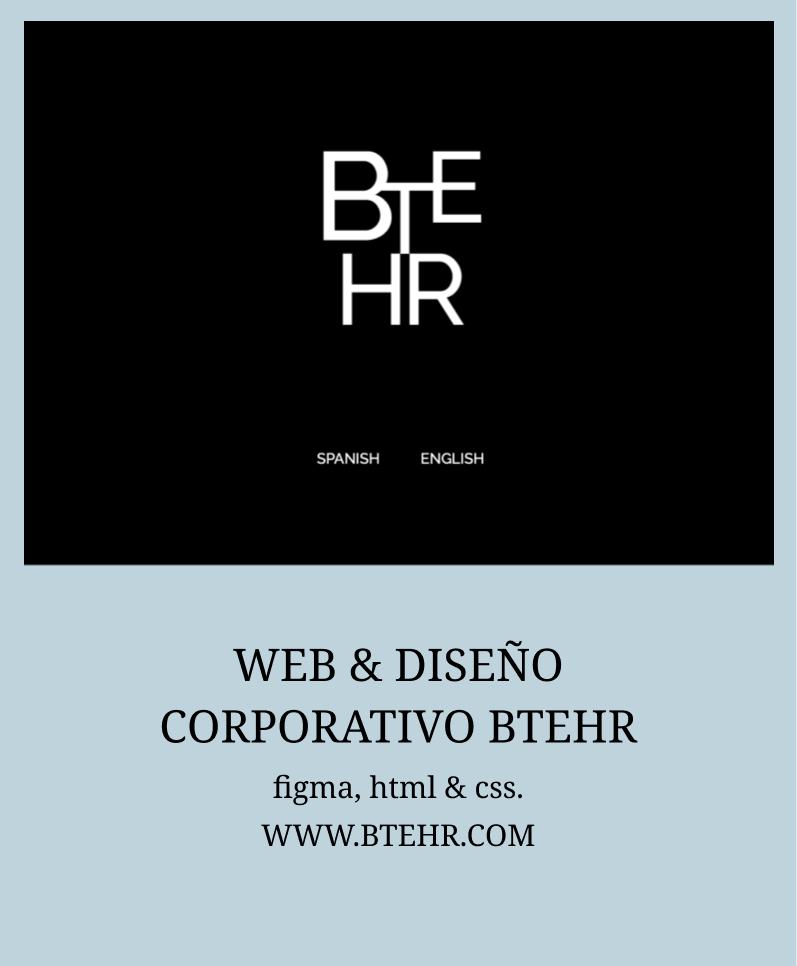
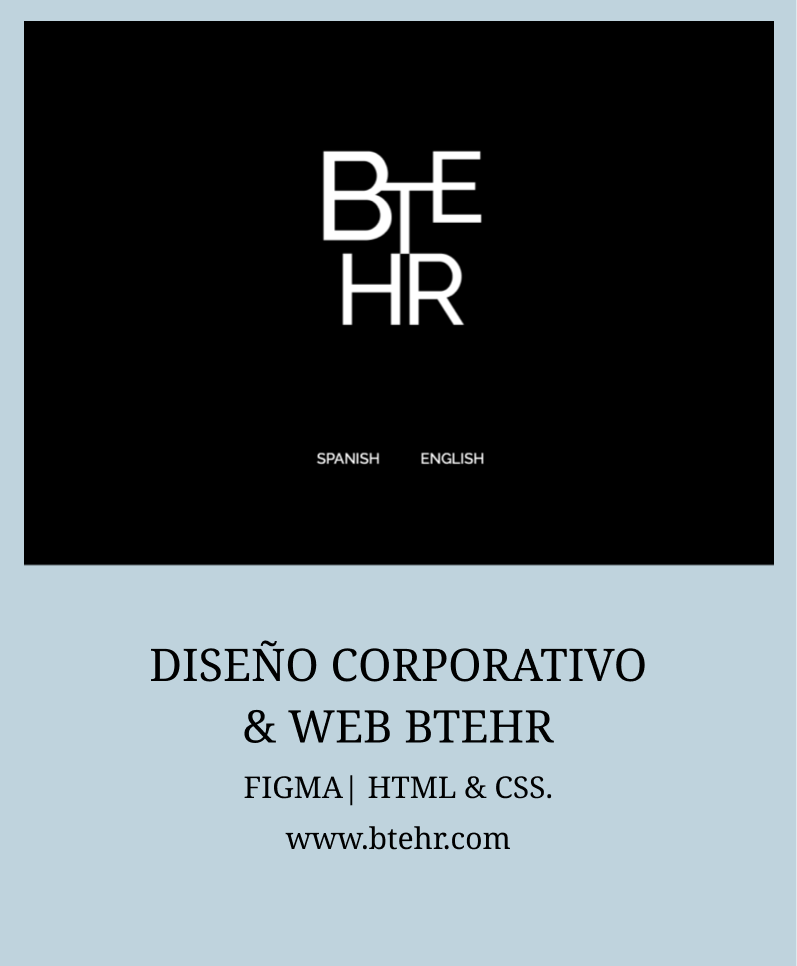
comienzo responsive index

Changed region(s): [[0.1807, 0.6522, 0.813, 0.9006]]

diff --git a/styles_responsive.css b/styles_responsive.css
@@ -1,0 +1,148 @@
+/* -------STYLES RESPONSIVE------- */
+
+@media(max-width:1000px){
+    
+    /* index */
+    .ejemplos{/* postales */
+        width: 80%;
+
+    }
+}
+
+@media(max-width:850px){
+    
+    /* index */
+    .navbar_portada a{/* navbar index / enlaces */
+        width: 100px;
+        font-size: 16px;
+
+    }
+    .ejemplos{/* postales */
+        height: 300px; 
+    } 
+    .footer_nav a{/* footer enlaces */
+        font-size: 16px;
+    
+    }
+}
+@media(max-width:800px){
+    
+   /* index */
+   .intro{
+    width: 80%;
+    height: 750px;/* 900 */
+
+}
+    .intro_titulo{
+        font-size: 55px;
+        line-height: 80px;
+        padding-top: 15px;
+
+    }
+    .intro_parrafo{
+        width: 85%;
+        font-size: 20px;
+        line-height: 35px;
+
+    }
+    .intro img{
+        padding-bottom: 20px; 
+
+    }
+    .servicios_titulo{
+        font-size: 20px;
+    }
+    .servicios_categorias{
+        font-size: 20px;
+        line-height: 55px;
+        
+    }
+    .conclusion{
+        height: 500px;
+
+    } 
+         .conclusion_titulo{
+            font-size: 20px;
+     
+         }
+         .conclusion_parrafo{
+            width: 75%;
+            font-size: 16px;
+            line-height: 30px;
+            
+        }
+        .conclusion_contacto{
+            height: 80px;
+            font-size: 20px; 
+        }
+      .ejemplos{
+        height: 250px;
+
+      }
+}
+@media(max-width:700px){
+    
+    /* index */
+    .navbar_portada a{/* navbar index / enlaces */
+        width: 55%;
+        font-size: 14px;
+
+    }
+    .intro{
+        width: 80%;
+        height: 680px;
+    
+    }
+        .intro_titulo{
+            font-size: 52px;
+            line-height: 79px;
+        }
+        .intro_parrafo{
+            width: 89%;
+    
+        }
+   
+             .conclusion_parrafo{
+                width: 80%;
+                
+            }
+          .ejemplos{
+            height: 220px;
+    
+          }
+   
+}
+@media(max-width:700px){
+    
+    /* index */
+    .intro{
+        width: 80%;
+        height: 680px;
+    
+    }
+        .intro_titulo{
+            font-size: 52px;
+            line-height: 79px;
+        }
+        .intro_parrafo{
+            width: 89%;
+    
+        }
+   
+             .conclusion_parrafo{
+                width: 80%;
+                
+            }
+          .ejemplos{
+            height: 220px;
+    
+          }
+          .footer_nav a{/* footer enlaces */
+            font-size: 14px;
+        
+        }
+        footer p {
+            font-size: 10px;
+        }
+   
+}

diff --git a/styles.css b/styles.css
@@ -46,7 +46,6 @@ font-family: 'Noto Serif Display', serif;
      width: 100%;
      height: auto;
      background-color: #F5F5EC; 
-     /* background-color:#F4EDE5; */
      cursor: url(img/cursores/cursor_azul.png) 16 16, auto; 
 
  }
@@ -828,10 +827,12 @@ footer{
                     line-height: normal;
                     font-size: 14px;
                     padding-top: 15px;
+                    padding-bottom: 3px ;
                
                 }
                       .enlace{
                         text-align: center;
+                        font-size: 12px;
                         font-family: "Noto Serif",serif;
                         font-style: normal;
                         font-weight: 400;
@@ -862,17 +863,9 @@ footer{
         flex-direction: column;
         justify-content: center;
      }
-         /* .irene img{
-            width: 350px;
-         }
-         .creative_studio img{
-            width: 550px;
-
-         }  */
 
           .about_contenido h5{
             width: 65%;
-            /* text-align: justify left; */
             text-align: center;
             font-family: 'Noto Serif', serif;
             font-size: 18px;
@@ -913,7 +906,7 @@ footer{
                #fin{
                 padding-bottom: 10%;
                }
-              .carita{
+              .carita{/* logo en azul */
                 width: 100%;
                 height: 300px;
                 display: flex;

diff --git a/index.html b/index.html
@@ -11,6 +11,7 @@
     <title>IRENE BECKER CREATIVE STUDIO</title>
     <link rel="icon" href="logos/smile.png" sizes="16x16 32x32" type="image/png"><!-- Favicon -->
     <link rel="stylesheet" type="text/css" href="styles.css" media="screen" /><!-- CSS -->
+    <link rel="stylesheet" type="text/css" href="styles_responsive.css" media="screen" /><!-- CSS RESPONSIVE -->
     <link rel="preconnect" href="https://fonts.googleapis.com">
     <link rel="preconnect" href="https://fonts.gstatic.com" crossorigin>
     <link href="https://fonts.googleapis.com/css2?family=Noto+Sans:ital,wght@0,100;0,200;0,300;1,100;1,200;1,300&family=Noto+Serif+Display:ital,wght@0,100;0,200;0,300;0,400;0,500;0,600;0,700;0,800;0,900;1,100;1,200;1,300;1,400;1,500;1,600;1,700;1,800;1,900&family=Noto+Serif:ital,wght@0,100;0,200;0,300;0,400;0,500;0,600;0,700;0,800;0,900;1,100;1,200;1,300;1,400;1,500;1,600;1,700;1,800;1,900&display=swap" rel="stylesheet"><!-- Tipografías -->

diff --git a/portfolio.html b/portfolio.html
@@ -55,7 +55,7 @@
                         <a  href="work_btehr.html"><h1>WEB & DISEÑO<br>
                             CORPORATIVO BTEHR</h1></a>
                         <h2>Diseño corporativo para la empresa de Blockchain 
-                            Btehr. Diseño en Figma, maquetación HTML5 & CSS3.</h2>
+                            Btehr. Figma, HTML5 & CSS3.</h2>
                         <p>2023 | En proceso.</p>
                         <a class="enlace" href="https://btehr.github.io" target="_blank">www.btehr.com</a>
                     </div>

diff --git a/work_paginas.css b/work_paginas.css
@@ -55,7 +55,7 @@
         width: 100%;
       }
           .imagen_portada img{
-            width: 60%;
+            width: 50%;/* 60 */
           }
       .contenido h1{
         width: 60%;
@@ -73,7 +73,7 @@
 
       }
       #imagen_deassin{
-        width: 80%;
+        width: 70%;
         height: auto;
         display: flex;
         flex-direction: row;
@@ -86,7 +86,7 @@
 
            }
       #imagenes_deassin{
-        width: 80%;
+        width: 70%;
         height: auto;
         display: flex;
         flex-direction: row;
